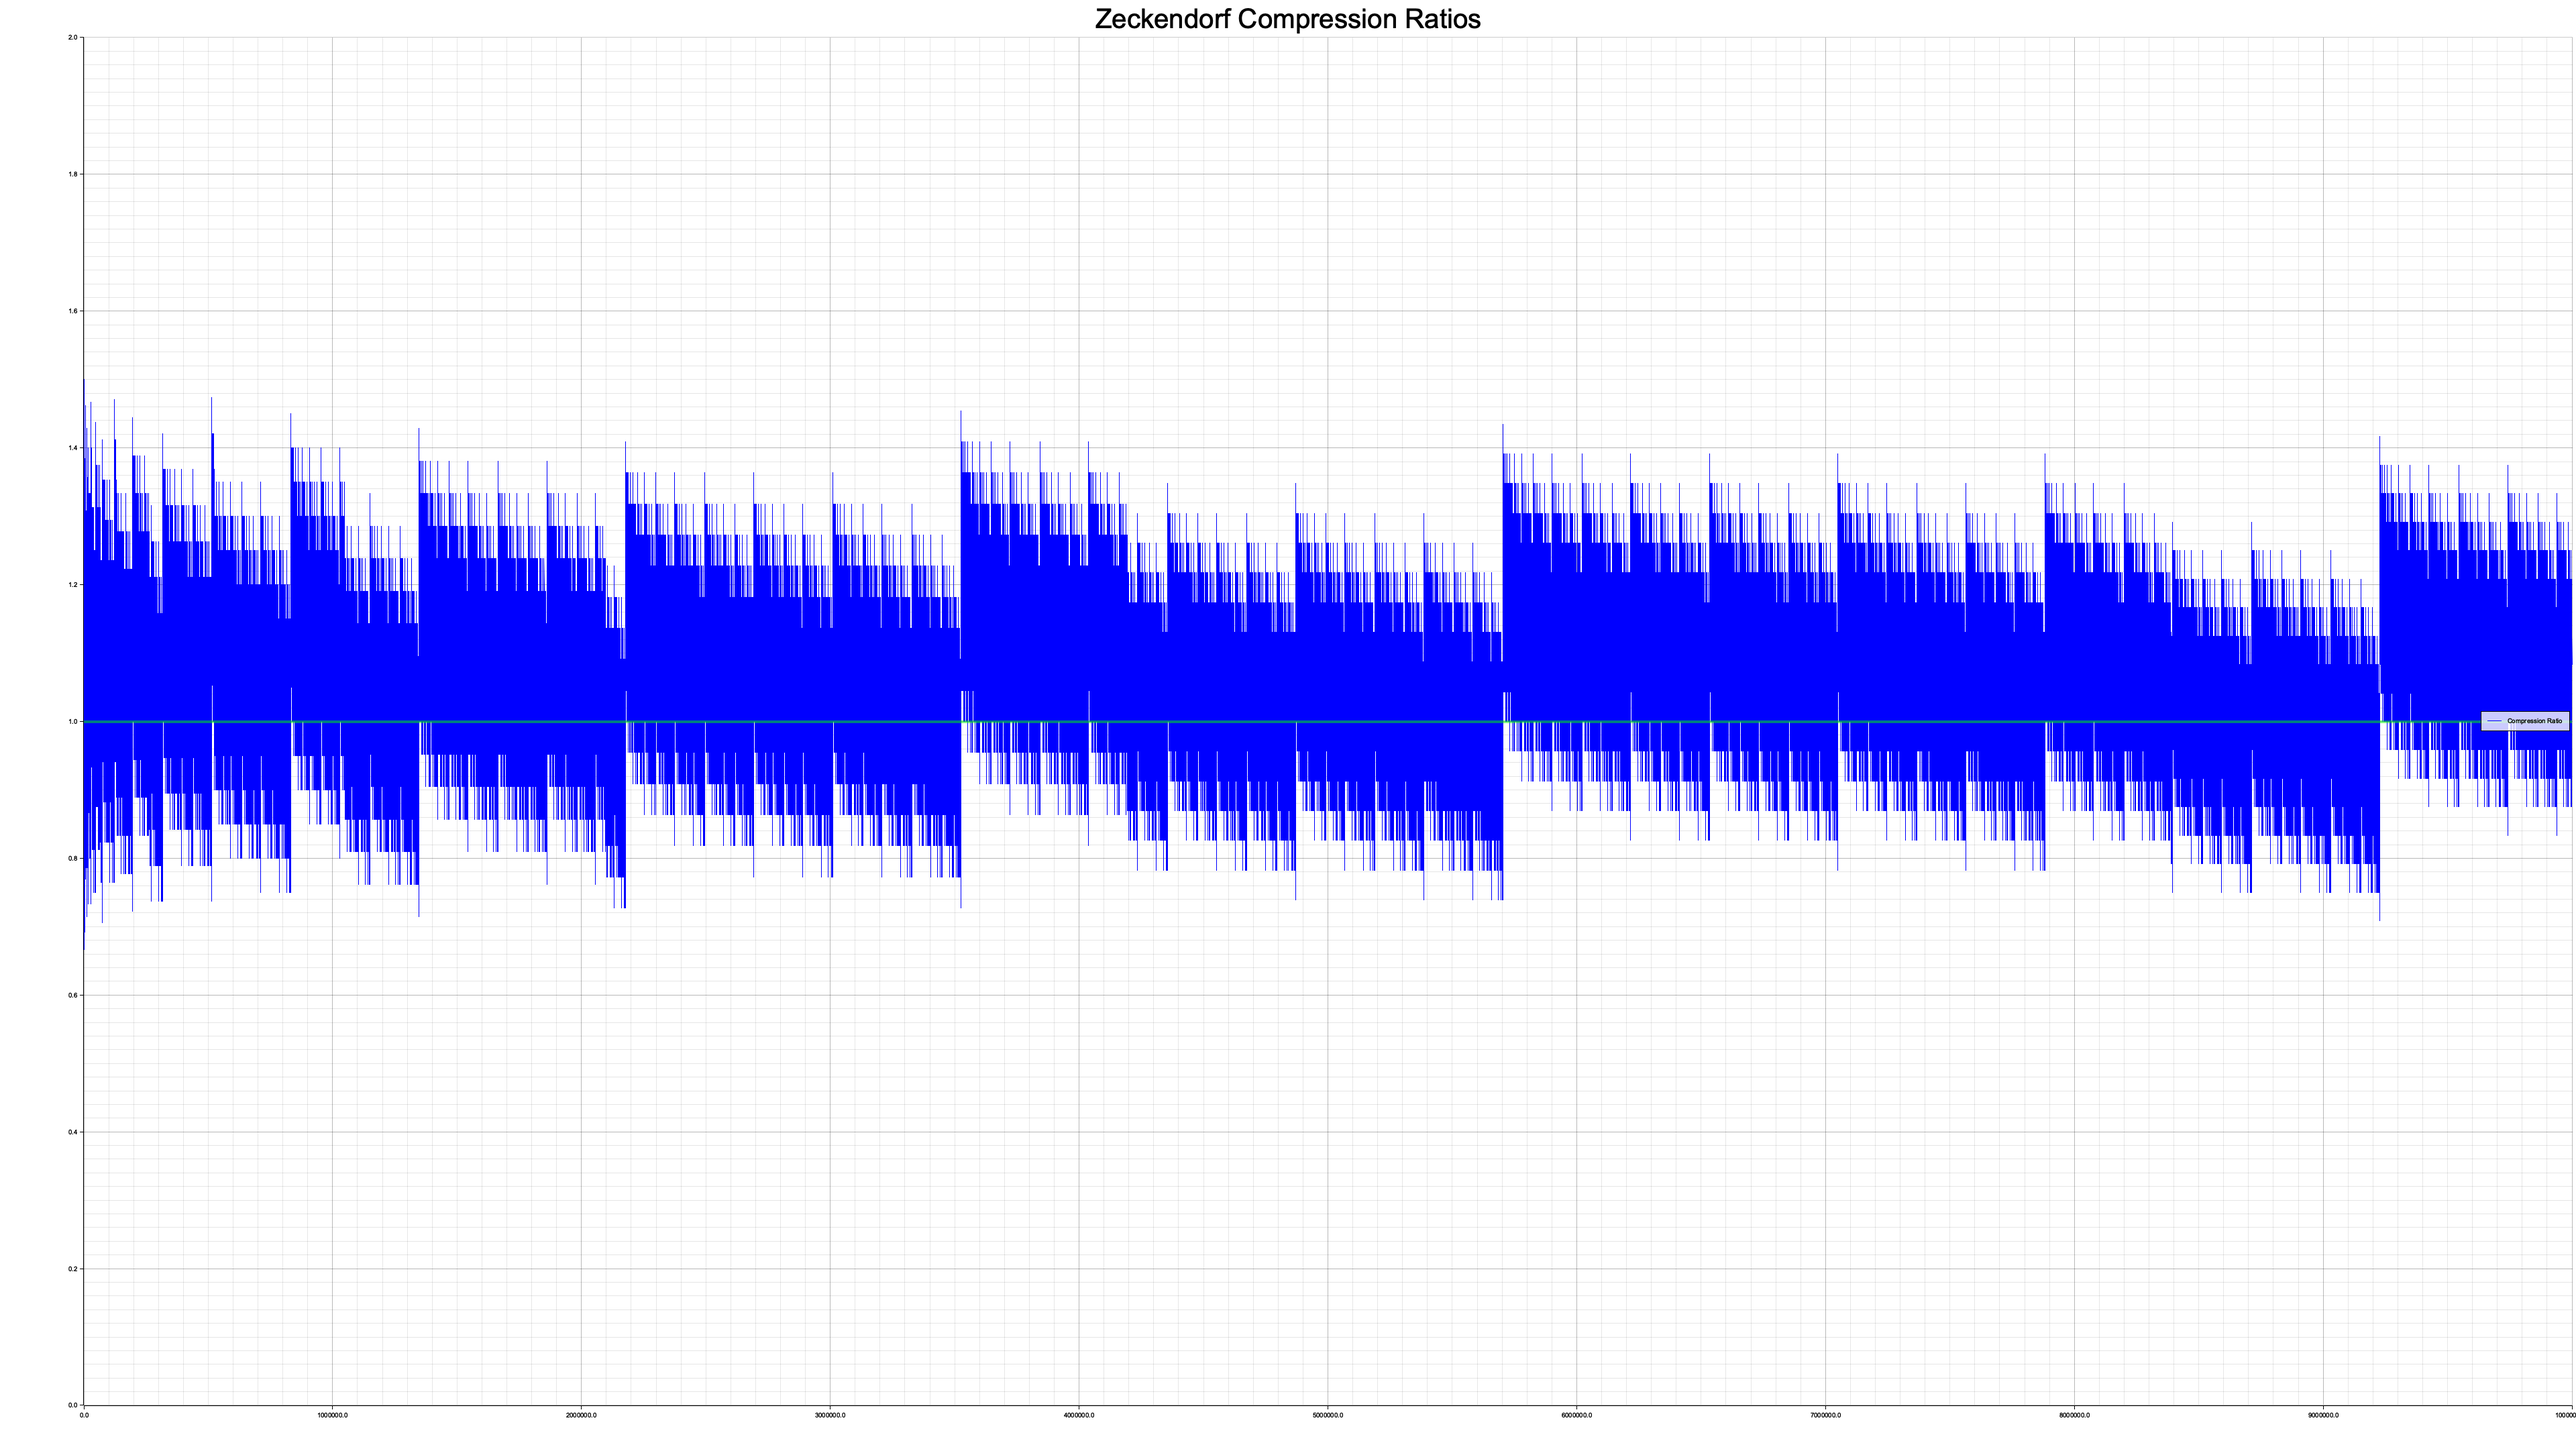
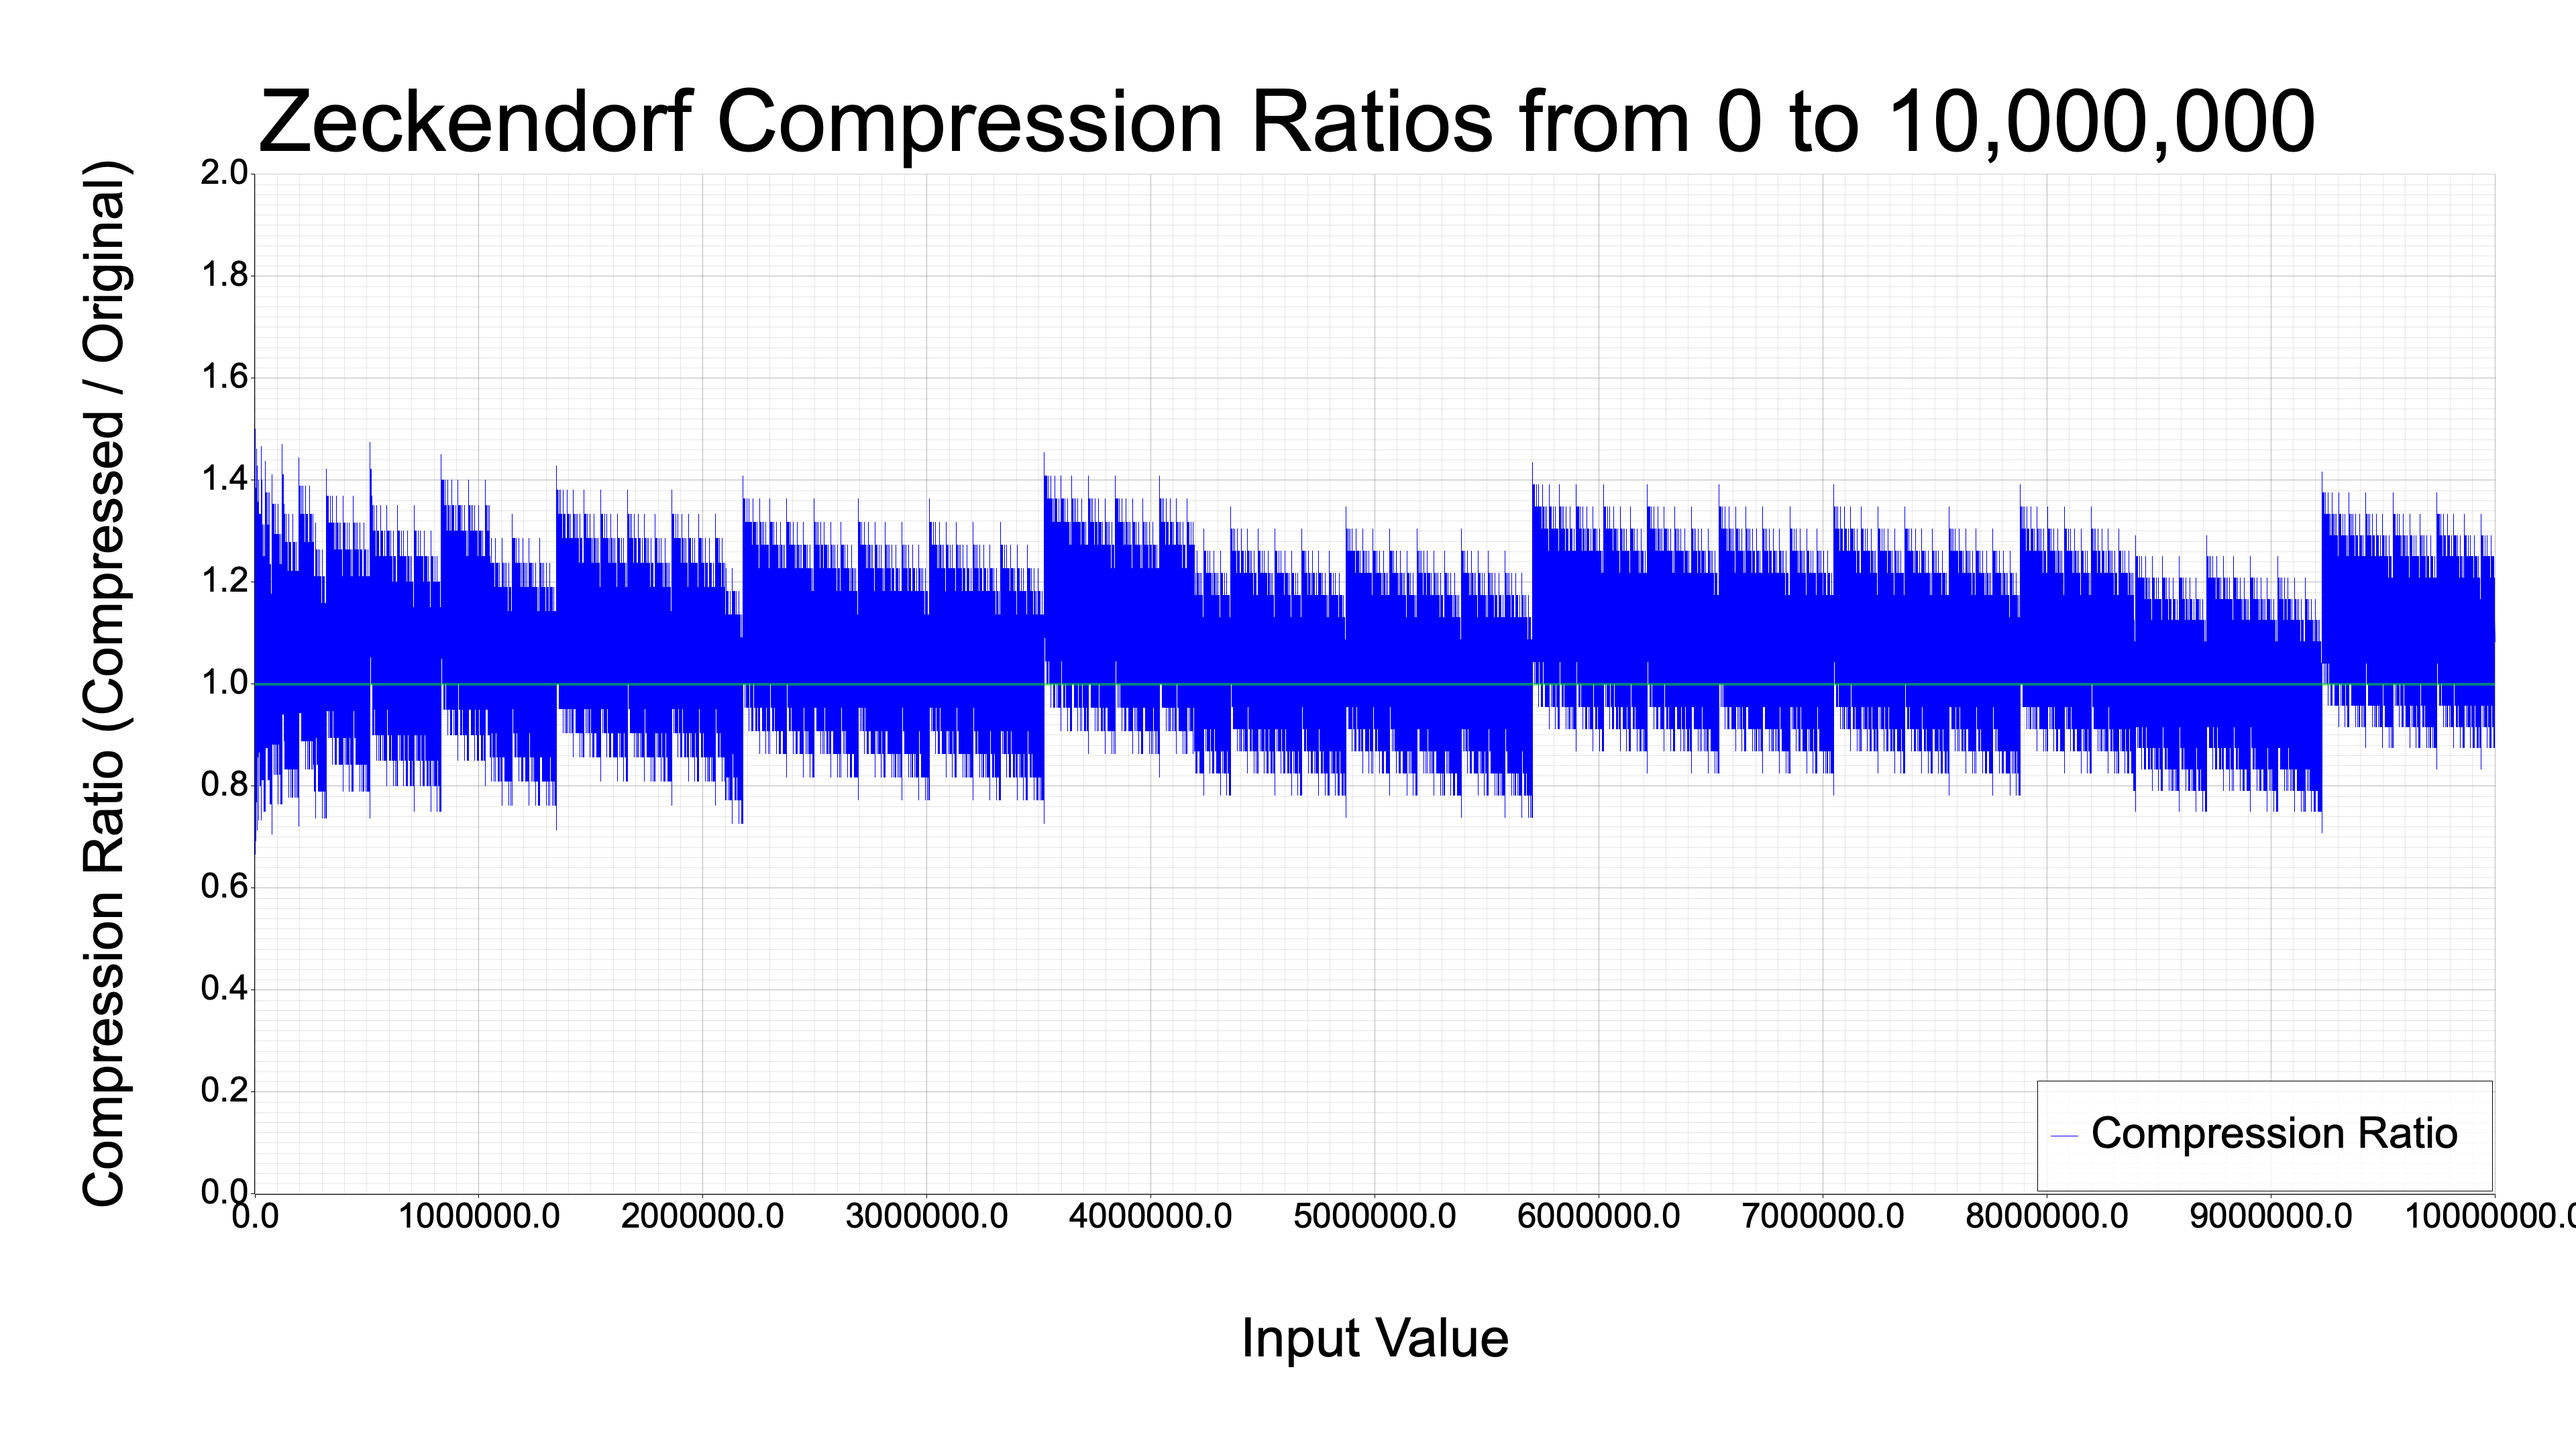
Update plot configurations and regenerate compression ratio plots
- Introduced constants for stroke width and dot size in `generate_statistics.rs` and `plot.rs` to standardize visual representation across plots.
- Updated plotting functions to utilize the new constants, enhancing the clarity and consistency of line and point displays in compression ratio visualizations.
- Regenerated PNG files for various compression ratios to reflect the updated plotting styles.

Changed region(s): [[0.0312, 0.062, 1.0, 0.8685], [0.4688, 0.8995, 0.5938, 0.9616], [0.4375, 0.0, 0.5625, 0.031]]

diff --git a/src/bin/generate_statistics.rs b/src/bin/generate_statistics.rs
@@ -26,6 +26,10 @@ const CHART_MARGIN: u32 = 120;
 const PLOT_WIDTH: u32 = 3840;
 const PLOT_HEIGHT: u32 = 2160;
 const LEGEND_MARGIN: u32 = 50;
+const SERIES_LINE_STROKE_WIDTH: u32 = 3;
+const SERIES_LINE_DOT_SIZE: u32 = 5;
+const LEGEND_PATH_LEFT_OFFSET: i32 = 30;
+const LEGEND_PATH_RIGHT_OFFSET: i32 = 10;
 
 // Time taken to generate bit limit statistics: 111.330666ms
 const INPUT_LIMITS: [u64; 5] = [10, 100, 1_000, 10_000, 100_000];
@@ -671,15 +675,11 @@ fn plot_compression_ratios(
         })
         .collect();
 
-    const STROKE_WIDTH: u32 = 3;
-    const LEGEND_PATH_LEFT_OFFSET: i32 = 30;
-    const LEGEND_PATH_RIGHT_OFFSET: i32 = 10;
-
     // Draw each series with different colors
     chart
         .draw_series(LineSeries::new(
             average_pct_data.iter().copied(),
-            BLUE.stroke_width(STROKE_WIDTH),
+            BLUE.stroke_width(SERIES_LINE_STROKE_WIDTH),
         ))?
         .label("Average compression ratio")
         .legend(|(x, y)| {
@@ -688,14 +688,14 @@ fn plot_compression_ratios(
                     (x - LEGEND_PATH_LEFT_OFFSET, y),
                     (x + LEGEND_PATH_RIGHT_OFFSET, y),
                 ],
-                BLUE.stroke_width(STROKE_WIDTH),
+                BLUE.stroke_width(SERIES_LINE_STROKE_WIDTH),
             )
         });
 
     chart
         .draw_series(LineSeries::new(
             median_pct_data.iter().copied(),
-            GREEN.stroke_width(STROKE_WIDTH),
+            GREEN.stroke_width(SERIES_LINE_STROKE_WIDTH),
         ))?
         .label("Median compression ratio")
         .legend(|(x, y)| {
@@ -704,14 +704,14 @@ fn plot_compression_ratios(
                     (x - LEGEND_PATH_LEFT_OFFSET, y),
                     (x + LEGEND_PATH_RIGHT_OFFSET, y),
                 ],
-                GREEN.stroke_width(STROKE_WIDTH),
+                GREEN.stroke_width(SERIES_LINE_STROKE_WIDTH),
             )
         });
 
     chart
         .draw_series(LineSeries::new(
             average_favorable_pct_data.iter().copied(),
-            MAGENTA.stroke_width(STROKE_WIDTH),
+            MAGENTA.stroke_width(SERIES_LINE_STROKE_WIDTH),
         ))?
         .label("Average favorable compression ratio")
         .legend(|(x, y)| {
@@ -720,14 +720,14 @@ fn plot_compression_ratios(
                     (x - LEGEND_PATH_LEFT_OFFSET, y),
                     (x + LEGEND_PATH_RIGHT_OFFSET, y),
                 ],
-                MAGENTA.stroke_width(STROKE_WIDTH),
+                MAGENTA.stroke_width(SERIES_LINE_STROKE_WIDTH),
             )
         });
 
     chart
         .draw_series(LineSeries::new(
             median_favorable_pct_data.iter().copied(),
-            CYAN.stroke_width(STROKE_WIDTH),
+            CYAN.stroke_width(SERIES_LINE_STROKE_WIDTH),
         ))?
         .label("Median favorable compression ratio")
         .legend(|(x, y)| {
@@ -736,35 +736,33 @@ fn plot_compression_ratios(
                     (x - LEGEND_PATH_LEFT_OFFSET, y),
                     (x + LEGEND_PATH_RIGHT_OFFSET, y),
                 ],
-                CYAN.stroke_width(STROKE_WIDTH),
+                CYAN.stroke_width(SERIES_LINE_STROKE_WIDTH),
             )
         });
-
-    const POINT_SIZE: u32 = 5;
 
     // Draw dots at each point
     chart.draw_series(
         average_pct_data
             .iter()
-            .map(|point| Circle::new(*point, POINT_SIZE, BLUE.filled())),
+            .map(|point| Circle::new(*point, SERIES_LINE_DOT_SIZE, BLUE.filled())),
     )?;
 
     chart.draw_series(
         median_pct_data
             .iter()
-            .map(|point| Circle::new(*point, POINT_SIZE, GREEN.filled())),
+            .map(|point| Circle::new(*point, SERIES_LINE_DOT_SIZE, GREEN.filled())),
     )?;
 
     chart.draw_series(
         average_favorable_pct_data
             .iter()
-            .map(|point| Circle::new(*point, POINT_SIZE, MAGENTA.filled())),
+            .map(|point| Circle::new(*point, SERIES_LINE_DOT_SIZE, MAGENTA.filled())),
     )?;
 
     chart.draw_series(
         median_favorable_pct_data
             .iter()
-            .map(|point| Circle::new(*point, POINT_SIZE, CYAN.filled())),
+            .map(|point| Circle::new(*point, SERIES_LINE_DOT_SIZE, CYAN.filled())),
     )?;
 
     chart
@@ -865,15 +863,11 @@ fn plot_favorable_percentages(
         .map(|s| (s.limit as f64, s.favorable_pct))
         .collect();
 
-    const STROKE_WIDTH: u32 = 3;
-    const LEGEND_PATH_LEFT_OFFSET: i32 = 30;
-    const LEGEND_PATH_RIGHT_OFFSET: i32 = 10;
-
     // Draw the series
     chart
         .draw_series(LineSeries::new(
             favorable_pct_data.iter().copied(),
-            RED.stroke_width(STROKE_WIDTH),
+            RED.stroke_width(SERIES_LINE_STROKE_WIDTH),
         ))?
         .label("Chance of compression being favorable (%)")
         .legend(|(x, y)| {
@@ -882,7 +876,7 @@ fn plot_favorable_percentages(
                     (x - LEGEND_PATH_LEFT_OFFSET, y),
                     (x + LEGEND_PATH_RIGHT_OFFSET, y),
                 ],
-                RED.stroke_width(STROKE_WIDTH),
+                RED.stroke_width(SERIES_LINE_STROKE_WIDTH),
             )
         });
 
@@ -1087,31 +1081,29 @@ fn plot_sampled_compression_ratios(
             )
         });
 
-    const POINT_SIZE: u32 = 5;
-
     // Draw dots at each point
     chart.draw_series(
         average_pct_data
             .iter()
-            .map(|point| Circle::new(*point, POINT_SIZE, BLUE.filled())),
+            .map(|point| Circle::new(*point, SERIES_LINE_DOT_SIZE, BLUE.filled())),
     )?;
 
     chart.draw_series(
         median_pct_data
             .iter()
-            .map(|point| Circle::new(*point, POINT_SIZE, GREEN.filled())),
+            .map(|point| Circle::new(*point, SERIES_LINE_DOT_SIZE, GREEN.filled())),
     )?;
 
     chart.draw_series(
         average_favorable_pct_data
             .iter()
-            .map(|point| Circle::new(*point, POINT_SIZE, MAGENTA.filled())),
+            .map(|point| Circle::new(*point, SERIES_LINE_DOT_SIZE, MAGENTA.filled())),
     )?;
 
     chart.draw_series(
         median_favorable_pct_data
             .iter()
-            .map(|point| Circle::new(*point, POINT_SIZE, CYAN.filled())),
+            .map(|point| Circle::new(*point, SERIES_LINE_DOT_SIZE, CYAN.filled())),
     )?;
 
     chart

diff --git a/src/bin/plot.rs b/src/bin/plot.rs
@@ -17,6 +17,10 @@ const CHART_MARGIN: u32 = 120;
 const PLOT_WIDTH: u32 = 3840;
 const PLOT_HEIGHT: u32 = 2160;
 const LEGEND_MARGIN: u32 = 50;
+const SERIES_LINE_STROKE_WIDTH: u32 = 3;
+const SERIES_LINE_DOT_SIZE: u32 = 5;
+const LEGEND_PATH_LEFT_OFFSET: i32 = 30;
+const LEGEND_PATH_RIGHT_OFFSET: i32 = 10;
 
 fn main() {
     let start_time = Instant::now();
@@ -31,16 +35,23 @@ fn main() {
     // Example: Plot compression ratios
     plot_compression_ratios("plots/compression_ratios_0_to_100.png", 0..100)
         .expect("Failed to plot compression ratios");
-    // plot_compression_ratios("plots/compression_ratios_0_to_257.png", 0..257)
-    //     .expect("Failed to plot compression ratios");
-    // plot_compression_ratios("plots/compression_ratios_0_to_1_000.png", 0..1_000)
-    //     .expect("Failed to plot compression ratios");
-    // plot_compression_ratios("plots/compression_ratios_0_to_10_000.png", 0..10_000).expect("Failed to plot compression ratios");
-    // plot_compression_ratios("plots/compression_ratios_0_to_100_000.png", 0..100_000).expect("Failed to plot compression ratios");
-    // // Takes about 11 seconds to generate
-    // plot_compression_ratios("plots/compression_ratios_0_to_1_000_000.png", 0..1_000_000).expect("Failed to plot compression ratios");
-    // // Takes about 104 seconds to generate
-    // plot_compression_ratios("plots/compression_ratios_0_to_10_000_000.png", 0..10_000_000).expect("Failed to plot compression ratios");
+    plot_compression_ratios("plots/compression_ratios_0_to_257.png", 0..257)
+        .expect("Failed to plot compression ratios");
+    plot_compression_ratios("plots/compression_ratios_0_to_1_000.png", 0..1_000)
+        .expect("Failed to plot compression ratios");
+    plot_compression_ratios("plots/compression_ratios_0_to_10_000.png", 0..10_000)
+        .expect("Failed to plot compression ratios");
+    plot_compression_ratios("plots/compression_ratios_0_to_100_000.png", 0..100_000)
+        .expect("Failed to plot compression ratios");
+    // Takes about 1 second to generate
+    plot_compression_ratios("plots/compression_ratios_0_to_1_000_000.png", 0..1_000_000)
+        .expect("Failed to plot compression ratios");
+    // Takes about 9 seconds to generate
+    plot_compression_ratios(
+        "plots/compression_ratios_0_to_10_000_000.png",
+        0..10_000_000,
+    )
+    .expect("Failed to plot compression ratios");
 
     let end_time = Instant::now();
     println!("Time taken: {:?}", end_time.duration_since(start_time));
@@ -100,14 +111,25 @@ fn plot_fibonacci_numbers(
 
     // Draw the line
     chart
-        .draw_series(LineSeries::new(data.iter().copied(), &RED))?
+        .draw_series(LineSeries::new(
+            data.iter().copied(),
+            RED.stroke_width(SERIES_LINE_STROKE_WIDTH),
+        ))?
         .label("Fibonacci Numbers")
-        .legend(|(x, y)| PathElement::new(vec![(x, y), (x + 20, y)], &RED));
+        .legend(|(x, y)| {
+            PathElement::new(
+                vec![
+                    (x - LEGEND_PATH_LEFT_OFFSET, y),
+                    (x + LEGEND_PATH_RIGHT_OFFSET, y),
+                ],
+                RED.stroke_width(SERIES_LINE_STROKE_WIDTH),
+            )
+        });
 
     // Draw dots at each point
     chart.draw_series(
         data.iter()
-            .map(|point| Circle::new(*point, 3, RED.filled())),
+            .map(|point| Circle::new(*point, SERIES_LINE_DOT_SIZE, RED.filled())),
     )?;
 
     // Draw text labels above each point showing x,y coordinates
@@ -204,19 +226,32 @@ fn plot_compression_ratios(
         })
         .collect();
 
+    const THINNER_SERIES_LINE_STROKE_WIDTH: u32 = 1;
     chart
-        .draw_series(LineSeries::new(data, &BLUE))?
+        .draw_series(LineSeries::new(
+            data,
+            BLUE.stroke_width(THINNER_SERIES_LINE_STROKE_WIDTH),
+        ))?
         .label("Compression Ratio")
-        .legend(|(x, y)| PathElement::new(vec![(x, y), (x + 20, y)], &BLUE));
+        .legend(|(x, y)| {
+            PathElement::new(
+                vec![
+                    (x - LEGEND_PATH_LEFT_OFFSET, y),
+                    (x + LEGEND_PATH_RIGHT_OFFSET, y),
+                ],
+                BLUE.stroke_width(THINNER_SERIES_LINE_STROKE_WIDTH),
+            )
+        });
 
     // Draw a line at ratio 1.0 (no compression benefit)
     chart.draw_series(LineSeries::new(
         vec![(range.start as f64, 1.0), (range.end as f64, 1.0)],
-        GREEN.mix(0.5).stroke_width(3),
+        GREEN.mix(0.5).stroke_width(SERIES_LINE_STROKE_WIDTH),
     ))?;
 
     chart
         .configure_series_labels()
+        .position(SeriesLabelPosition::LowerRight)
         .margin(LEGEND_MARGIN)
         .label_font(("sans-serif", LEGEND_FONT_SIZE).into_font())
         .background_style(&WHITE.mix(0.8))
